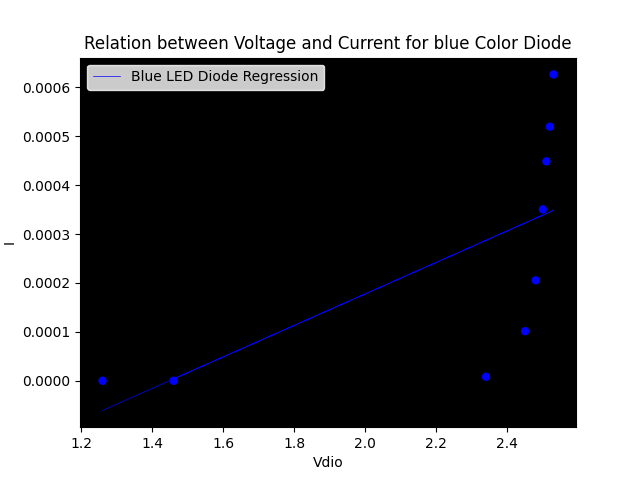
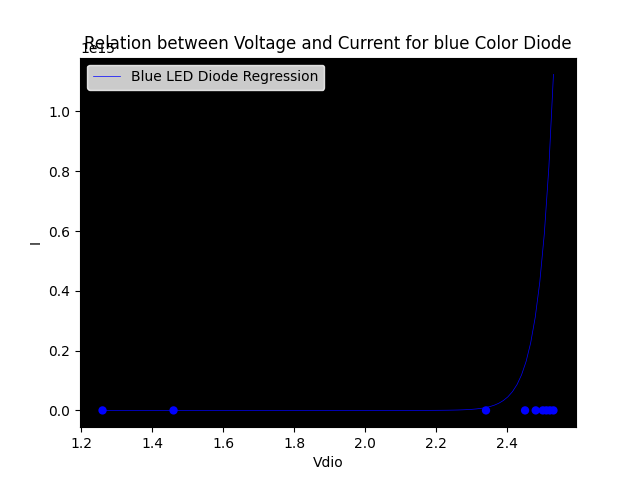
Post Monday

diff --git a/modules/generateGraphs.py b/modules/generateGraphs.py
@@ -11,6 +11,7 @@ def objective(x, a, b, p):
     # return a*e**(p*x) + b
     # a*e**(p*x) + b
     # I = a*(e**(p*x)-1)
+    # (1/(25.852*10**-3))*
     return a*(e**(p*x)-1) + b
 
 
@@ -29,17 +30,29 @@ def generateIndivGraph(colorVal):
     plt.scatter(colorDf['Vdio'], colorDf['I'], c=colorVal, cmap=plt.cm.Blues, edgecolors='none')
     # Create a regression curve using the data and the objective function.
     # param_bounds=([-np.inf,-np.inf,0],[np.inf,np.inf,np.inf])
+    # param_bounds=([-20,-np.inf,-np.inf],[20,np.inf,np.inf])
     param_bounds=([-np.inf,-np.inf,-np.inf],[np.inf,np.inf,np.inf])
     popt, pcov = curve_fit(objective, colorDf['Vdio'], colorDf['I'], maxfev=10000, bounds=param_bounds)
     # Print the parameters of the regression curve.
     print('For LED color "' + colorVal + '", the parameters are: [a =', popt[0], 'b =', popt[1], 'p =', popt[2], end=']\n')
     regression = 'For ' + colorVal + ' color, the parameters are: [a = '+ str(popt[0])+ ' b = ' + str(popt[1]), ' p = ' + str(popt[2]), ' ]'
     regressionResults.write(str(regression)+'\n')
-    # Plot the regression curve.
-    plt.plot(colorDf['Vdio'], objective(colorDf['Vdio'], *popt), 'r-', label=colorVal.capitalize()+ ' LED Diode Regression', color=colorVal, linewidth=.5)
+    # Plot the regression curve using the min and max values of the x-axis.
+    # Linspace the x-axis from the min and max values of the x-axis.
+    x = np.linspace(min(colorDf['Vdio']), max(colorDf['Vdio']), 100)
+
+
+    # plt.plot(colorDf['Vdio'], objective(colorDf['Vdio'], *popt), 'r-', label=colorVal.capitalize()+ ' LED Diode Regression', color=colorVal, linewidth=.5)
+    plt.plot(x, objective(x, *popt), 'r-', label=colorVal.capitalize()+ ' LED Diode Regression', color=colorVal, linewidth=.5)
     # Add a legend with white text.
     plt.legend(loc='upper left', facecolor='white', edgecolor='white', frameon=True)
     plt.savefig('outputs/' + colorVal + '.png')
+    plt.show()
+
+
+    
+    # Plot the original data and connect each point together no regression curve.
+    plt.plot(colorDf['Vdio'], colorDf['I'], color='white')
     plt.show()
 
 # List of colors to plot
